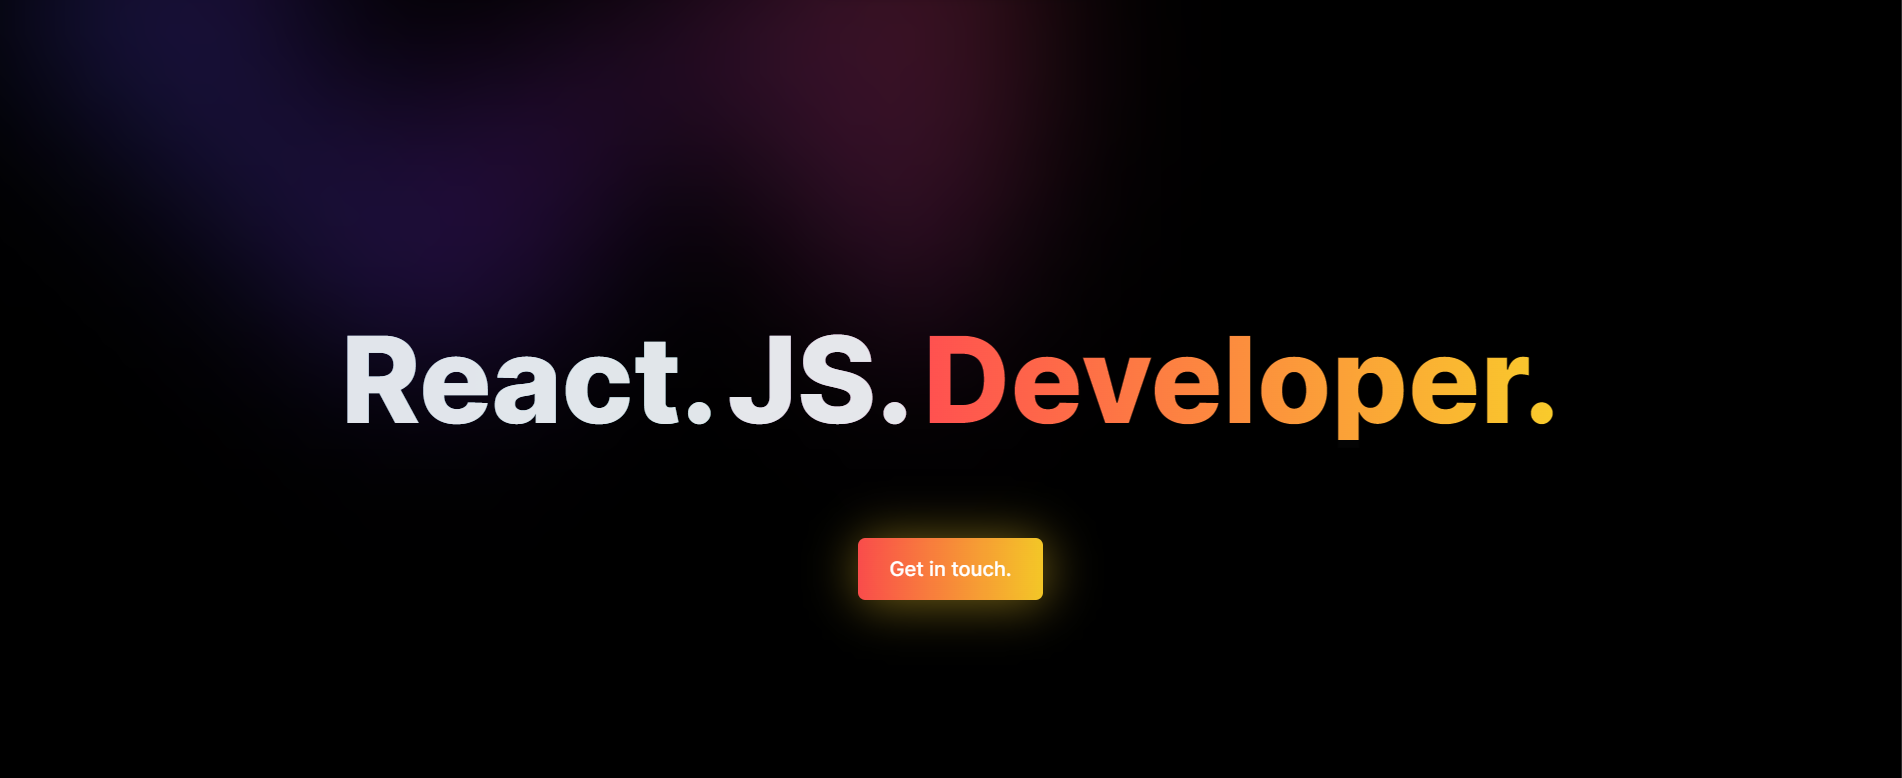
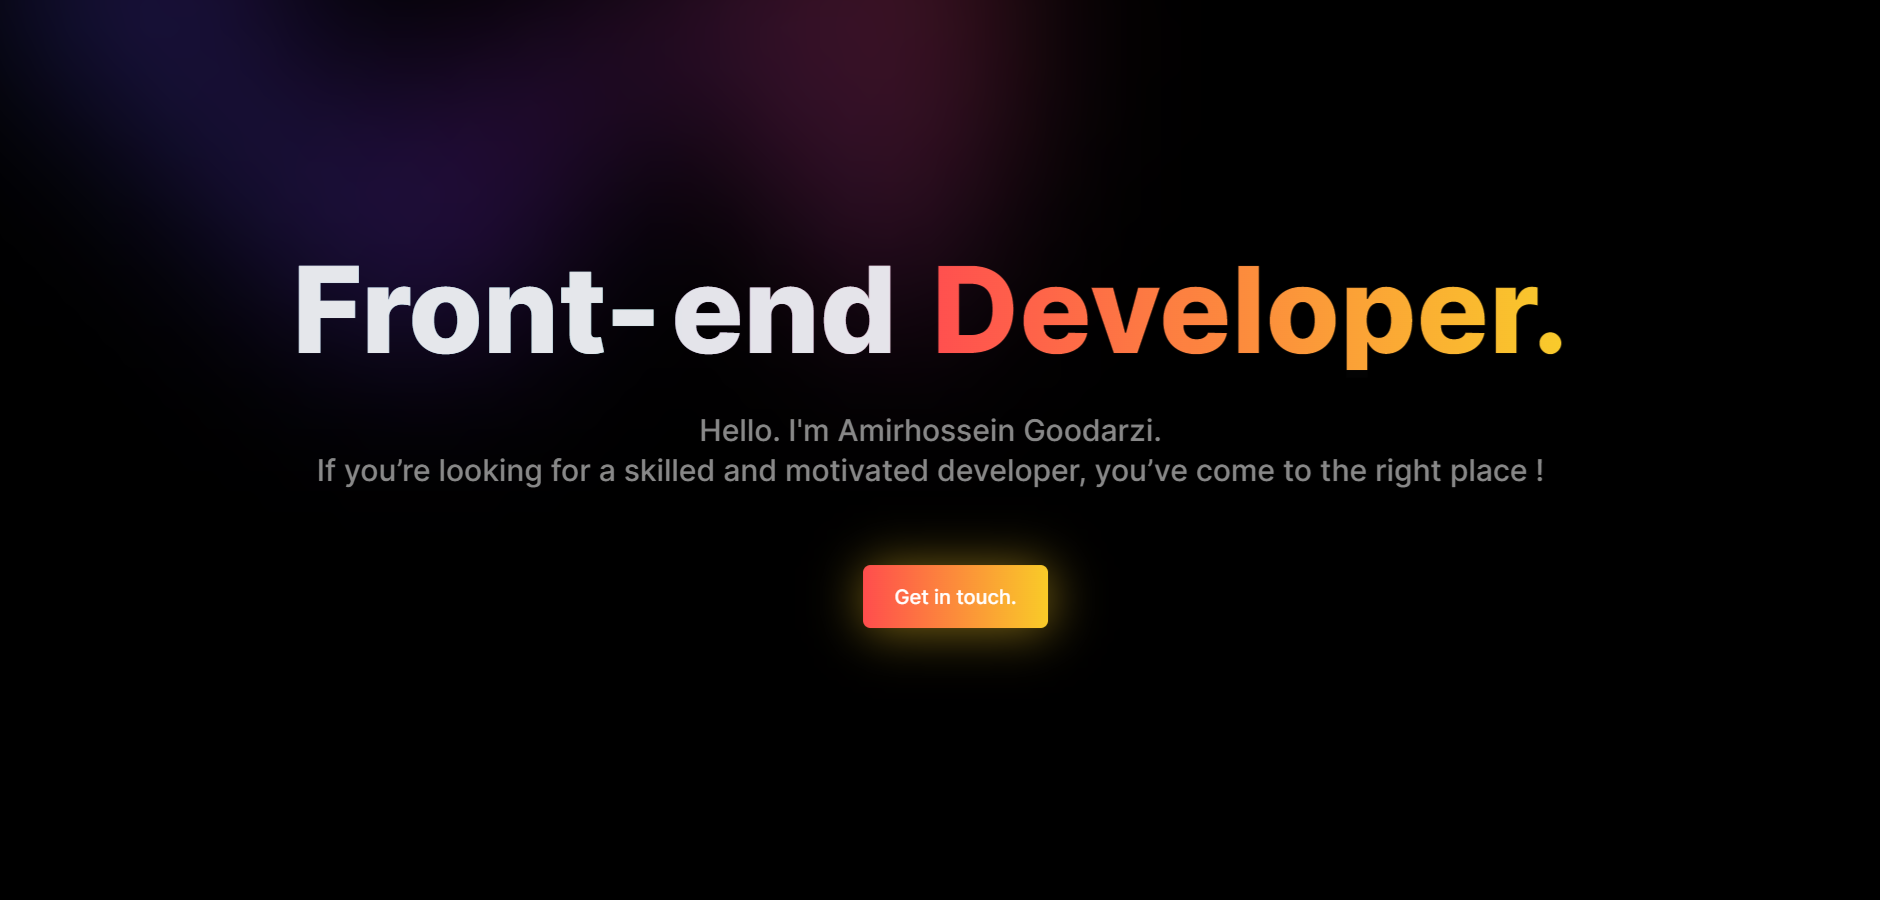
Update contents and readmeHeader

Changed region(s): [[0.1543, 0.4319, 0.833, 0.5553], [0.1543, 0.2776, 0.833, 0.4319], [0.4319, 0.5861, 0.5862, 0.8021]]

diff --git a/src/pages/Home/index.tsx b/src/pages/Home/index.tsx
@@ -31,20 +31,20 @@ const Home = () => {
               className={`text_blue_grad ${
                 activedTitleIndex === 0 ? "active" : ""
               }`}
-              title="React."
+              title="Front-"
             >
-              React.
+              Front-
             </div>
             <div
               className={`text_purple_grad ${
                 activedTitleIndex === 1 ? "active" : ""
               }`}
-              title="JS."
+              title="end"
             >
-              JS.
+              end
             </div>
             <div
-              className={`text_orange_grad ${
+              className={`lg:ms-5 text_orange_grad ${
                 activedTitleIndex === 2 ? "active" : ""
               }`}
               title="Developer."
@@ -54,8 +54,10 @@ const Home = () => {
           </div>
           <div className="description" data-aos="fade-down">
             <p>
-              Hello. I'm Amirhossein Goodarzi. If you’re looking for a skilled
-              and motivated developer, you’ve come to the right place !
+              Hello. I'm Amirhossein Goodarzi.
+              <br />
+              If you’re looking for a skilled and motivated developer, you’ve
+              come to the right place !
             </p>
           </div>
           <div className="buttons">
@@ -86,28 +88,35 @@ const Home = () => {
             <h3 className="text_simple_grad">I'm doing my best</h3>
           </div>
           <div
-            className="w-full description !text-justify"
+            className="w-full description !text-justify space-y-3"
             data-aos="fade-down"
           >
-            <p className="italic text-base mb-5">
-              Imagine a world without computers and programmers !
-              <br />— it’s hard to fathom, right?
+            <p>
+              Imagine a world where user interfaces are not just functional, but
+              a delightful experience. Now, imagine having a{" "}
+              <i className="text-black dark:text-white">front-end developer</i>{" "}
+              on your team who can craft these experiences with precision and
+              creativity. That’s me. With{" "}
+              <i className="text-black dark:text-white">
+                4 years of experience
+              </i>{" "}
+              in building responsive and user-friendly web applications using
+              React.js, I bring a blend of technical expertise and a keen eye
+              for design to every project.
             </p>
             <p>
-              As a passionate and creative frontend developer with four years of
-              experience, I thrive on bringing user-friendly and responsive web
-              applications to life using React.js.
-              <br />
-              My solid understanding of web development fundamentals, coupled
-              with my exposure to backend development, enables me to collaborate
-              effectively with my teammates.
+              My journey in web development has also given me exposure to{" "}
+              <i className="text-black dark:text-white">back-end</i> and{" "}
+              <i className="text-black dark:text-white">mobile development</i>,
+              enabling seamless collaboration with my teammates. Currently, I am
+              expanding my skill set by learning <i className="text-black dark:text-white">Python</i> and diving into the
+              fascinating world of <i className="text-black dark:text-white">machine learning</i>.
             </p>
-            <br />
             <p>
-              So If you’re looking for a motivated person, that’s me. I’m always
-              eager to learn new skills and technologies. Currently, I’m diving
-              into Python and machine learning concepts to enhance my
-              professional growth.
+              I don’t just build interfaces; I create engaging user experiences
+              that drive user satisfaction and business growth. Beyond my
+              technical skills, I excel in effective communication, consistently
+              deliver results, and foster strong relationships within my team.
             </p>
           </div>
           <AbsoluteShape position="bottom_right" />

diff --git a/src/pages/Home/home.scss b/src/pages/Home/home.scss
@@ -33,7 +33,7 @@
       }
     }
     .description {
-      @apply w-full md:w-[70%] text-base lg:text-lg text-justify lg:text-center my-8 leading-10;
+      @apply w-full md:w-[70%] text-base lg:text-xl text-justify lg:text-center my-8 leading-10;
     }
   }
   #first_section {

diff --git a/README.md b/README.md
@@ -8,16 +8,29 @@
 
 </div>
 
->  Imagine a world without computers and programmers ! 
->— it’s hard to fathom, right?
+Imagine a world where user interfaces are not just functional, but
+a delightful experience. Now, imagine having a front-end developer
+on your team who can craft these experiences with precision and
+creativity. That’s me. With 4 years of experience in building
+responsive and user-friendly web applications using React.js, I
+bring a blend of technical expertise and a keen eye for design to
+every project.
 
->As a passionate and creative frontend developer with four years of experience, I thrive on bringing user-friendly and responsive web applications to life using React.js.
->My solid understanding of web development fundamentals, coupled with my exposure to backend development, enables me to collaborate effectively with my teammates.
-> So If you’re looking for a motivated person, that’s me. I’m alway eager to learn new skills and technologies. Currently, I’m diving into Python and machine learning concepts to enhance my professional growth.
+My journey in web development has also given me exposure to
+back-end and mobile development, enabling seamless collaboration
+with my teammates. Currently, I am expanding my skill set by
+learning Python and diving into the fascinating world of machine
+learning.
+
+I don’t just build interfaces; I create engaging user experiences
+that drive user satisfaction and business growth. Beyond my
+technical skills, I excel in effective communication, consistently
+deliver results, and foster strong relationships within my team.
 
 <div>
   
-<a href="https://amirhosseingoodarzi.vercel.app">![CV](https://img.shields.io/static/v1?logo=bookstack&label=&message=CV&color=2D333B&logoWidth=20&logoColor=EEE&style=flat-square)</a>
+<a href="http://localhost:5173/src/assets/files/AmirhosseinGoodarzi-Front-end-developer-Resume.pdf">![DownloadCV](https://img.shields.io/static/v1?logo=bookstack&label=&message=DownloadCV&color=2D333B&logoWidth=20&logoColor=EEE&style=flat-square)</a>
+<a href="https://amirhosseingoodarzi.vercel.app">![Website](https://img.shields.io/static/v1?logo=bookstack&label=&message=Website&color=2D333B&logoWidth=20&logoColor=EEE&style=flat-square)</a>
 <a href="https://www.linkedin.com/in/amir-hossein-goodarzi/">![Linkedin](https://img.shields.io/static/v1?logo=linkedin&label=&message=Linkedin&color=2D333B&logoWidth=20&logoColor=EEE&style=flat-square)</a>
 
 </div>
